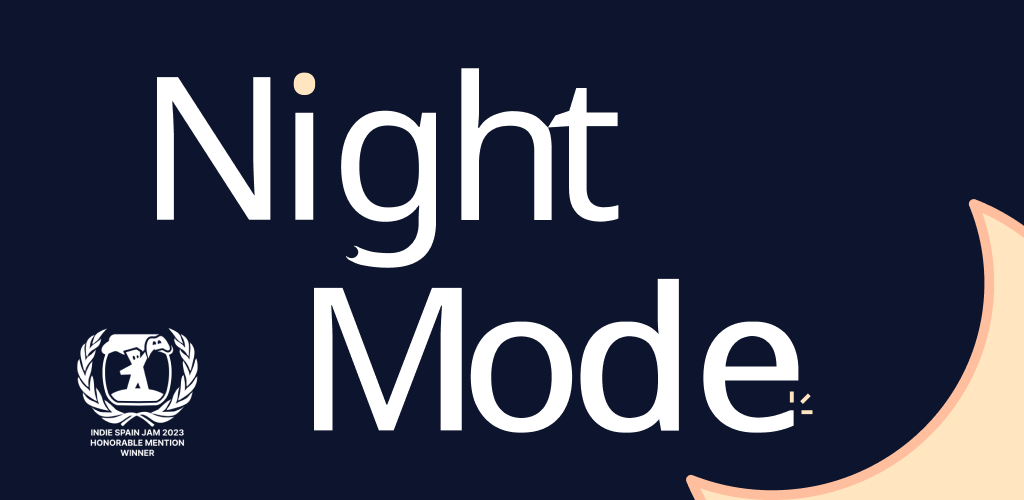
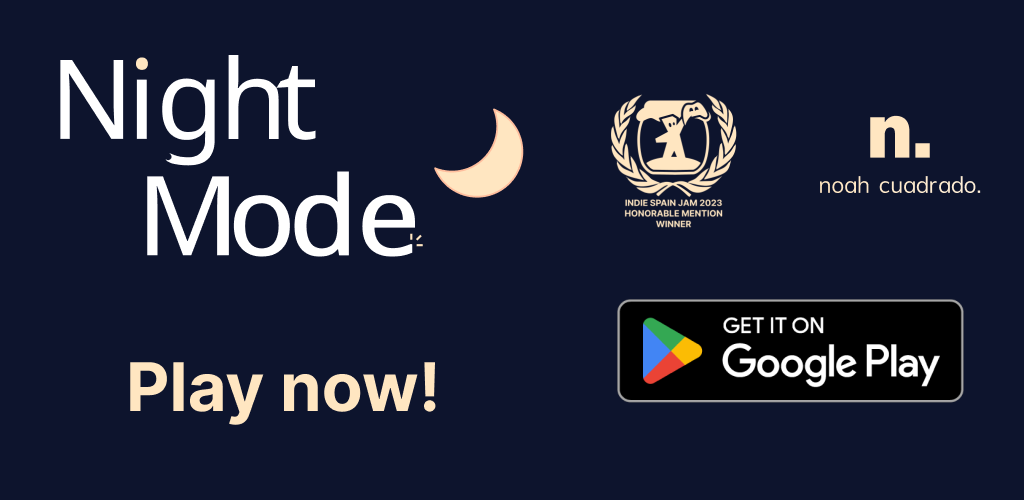
Co-authored-by: juancentenob <juancentenob@users.noreply.github.com>

Changed region(s): [[0.0625, 0.36, 1.0, 1.0], [0.0312, 0.09, 0.7188, 0.54], [0.8438, 0.21, 0.9062, 0.33]]

diff --git a/src/body/home/Home.js b/src/body/home/Home.js
@@ -33,7 +33,7 @@ function Body() {
                         </div>
                         <div className='pt-5'>
                             <MagicButton type="animated" className="btn small-text p-3 me-3 mb-3 mb-lg-0" onClick={() => openLink("/nightmode", true)}>Play the game!</MagicButton>
-                            <MagicButton type="animated" className="btn small-text p-3" onClick={() => openLink("https://noahuxui.itch.io/night-mode")}>
+                            <MagicButton type="animated" className="btn small-text p-3" onClick={() => openLink("https://play.google.com/store/apps/details?id=com.noahcuadrado.nightmode")}>
                                 <span className='me-1'>Visit</span>
                                 <TbArrowUpRight />
                             </MagicButton>
